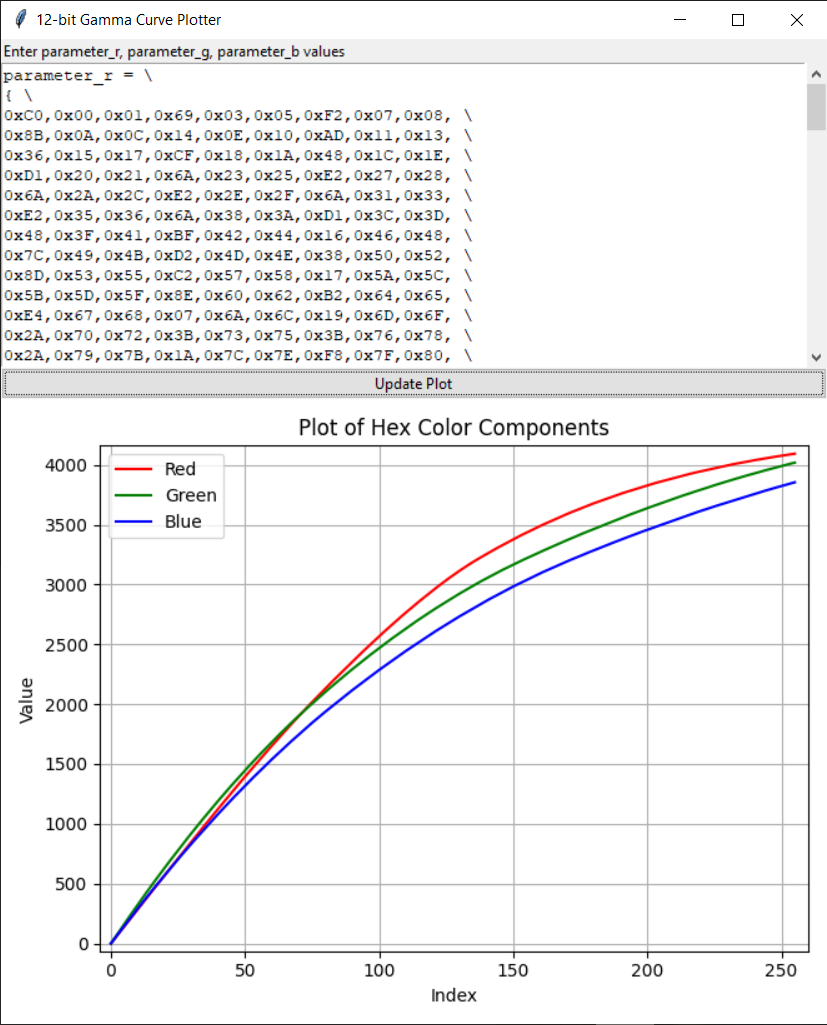
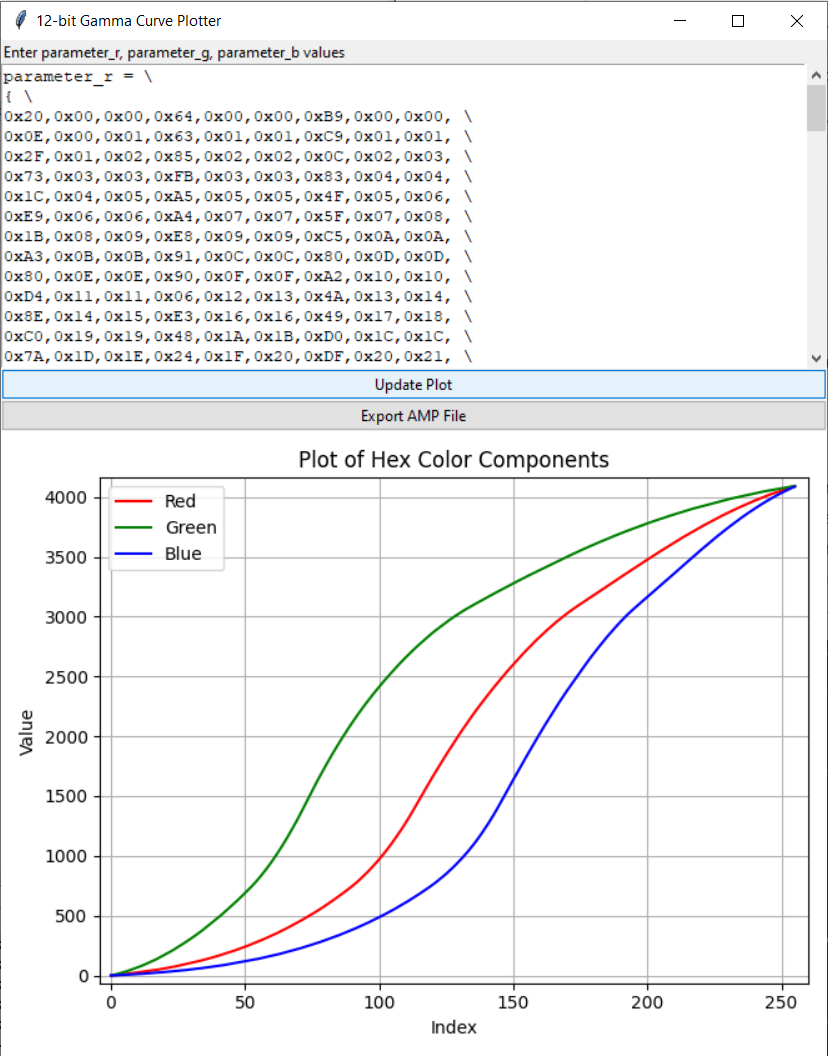
Added export to *.amp

Changed region(s): [[0.0, 0.0, 1.0, 1.0], [0.9371, 0.0, 0.9674, 0.0312], [0.8767, 0.0, 0.9069, 0.0312]]

diff --git a/12bit_gamma_plotter.py b/12bit_gamma_plotter.py
@@ -4,6 +4,7 @@ from tkinter import ttk
 from matplotlib.backends.backend_tkagg import FigureCanvasTkAgg
 from matplotlib.figure import Figure
 import re
+from tkinter import filedialog
 
 # Function to read two 12-bit numbers from a chunk of three bytes
 def read_uint12(data_chunk):
@@ -16,17 +17,11 @@ def read_uint12(data_chunk):
 # Function to update the plots with RGB parameters
 def update_plot(parameter_r, parameter_g, parameter_b):
 
-    # Update plot with data from the text field
-    def update_values(data_bytes):
-        data_chunk = np.array(data_bytes, dtype=np.uint8).tobytes()
-        twelve_bit_numbers = read_uint12(data_chunk)
-        return twelve_bit_numbers & 0xFFF # Mask to ensure it's 12-bit
-
     # Clear the current plot and create new plots for each parameter
     ax.clear()
-    ax.plot(update_values(parameter_r), 'ro-', label='Red', markersize=0)
-    ax.plot(update_values(parameter_g), 'go-', label='Green', markersize=0)
-    ax.plot(update_values(parameter_b), 'bo-', label='Blue', markersize=0)
+    ax.plot(parameter_r, 'ro-', label='Red', markersize=0)
+    ax.plot(parameter_g, 'go-', label='Green', markersize=0)
+    ax.plot(parameter_b, 'bo-', label='Blue', markersize=0)
     ax.set_xlim(0-4, 256+4)
     ax.set_ylim(0-64, 4096+64)
     ax.set_title('Plot of Hex Color Components')
@@ -47,14 +42,6 @@ def parse_hex_colors(input_text):
     parameter_r = [int(hex_values[i], 16) for i in range(0, values_per_color)]
     parameter_g = [int(hex_values[i], 16) for i in range(values_per_color, 2 * values_per_color)]
     parameter_b = [int(hex_values[i], 16) for i in range(2 * values_per_color, 3 * values_per_color)]
-    
-    # Return all parameter values (R, G, B)
-    return parameter_r, parameter_g, parameter_b
-
-# Function to handle button click event
-def on_button_click():
-    # Extract the RGB components from the input text
-    parameter_r, parameter_g, parameter_b = parse_hex_colors(text_field.get("1.0", tk.END))
 
     # Make sure all arrays have the same length
     trimmed_length = len(parameter_r) - (len(parameter_r) % 3)
@@ -63,8 +50,57 @@ def on_button_click():
     parameter_g = parameter_g[:trimmed_length]
     parameter_b = parameter_b[:trimmed_length]
     
+    # Decode 12bit data format
+    def decode_values(data_bytes):
+        data_chunk = np.array(data_bytes, dtype=np.uint8).tobytes()
+        twelve_bit_numbers = read_uint12(data_chunk)
+        return twelve_bit_numbers & 0xFFF # Mask to ensure it's 12-bit
+    
+    # Return all parameter values (R, G, B)
+    return decode_values(parameter_r), decode_values(parameter_g), decode_values(parameter_b)
+
+# Function to handle button click event
+def on_button_click():
+    # Extract the RGB components from the input text
+    parameter_r, parameter_g, parameter_b = parse_hex_colors(text_field.get("1.0", tk.END))
+
     # Update the plot with the RGB data
     update_plot(parameter_r, parameter_g, parameter_b)
+
+# Function to handle exporting to Adobe AMP format
+def export_amp(parameter_r, parameter_g, parameter_b):
+    if not len(parameter_r) or not len(parameter_g) or not len(parameter_b):
+        print("Error: empty input, nothing to export.")
+        return
+    if len(parameter_r)+len(parameter_g)+len(parameter_b) < 256*3:
+        print("Error: wrong array length in input.")
+        return
+        # Convert the parameters to 8-bit if they aren't already
+    parameter_r_8bit = np.array(parameter_r >> 4, dtype=np.uint8)
+    parameter_g_8bit = np.array(parameter_g >> 4, dtype=np.uint8)
+    parameter_b_8bit = np.array(parameter_b >> 4, dtype=np.uint8)
+    
+    # Open a file dialog for the user to choose where to save the file
+    file_path = filedialog.asksaveasfilename(defaultextension=".amp", filetypes=[("Adobe AMP files", "*.amp")])
+    if not file_path:
+        print("Export canceled.")
+        return  # User canceled the save operation
+    
+    # Write the data to a binary file in the specified format
+    with open(file_path, 'wb') as amp_file:
+        amp_file.write(bytes(range(256)))  # Write 256 bytes starting from 00 to FF
+        amp_file.write(bytes(parameter_r_8bit))
+        amp_file.write(bytes(parameter_g_8bit))
+        amp_file.write(bytes(parameter_b_8bit))
+        amp_file.write(bytes(range(256)))  # Write 256 bytes starting from 00 to FF again
+        
+    print("AMP file exported successfully!")
+
+def on_export_button_click():
+    # Parse the hex colors from the text field
+    parameter_r, parameter_g, parameter_b = parse_hex_colors(text_field.get("1.0", tk.END))
+    # Call the function to export to AMP with the parsed RGB values
+    export_amp(parameter_r, parameter_g, parameter_b)
 
 # Create the main window
 root = tk.Tk()
@@ -92,6 +128,9 @@ text_field['yscrollcommand'] = scrollbar.set
 update_button = ttk.Button(root, text="Update Plot", command=on_button_click)
 update_button.pack(fill='x')
 
+export_amp_button = ttk.Button(root, text="Export AMP File", command=on_export_button_click)
+export_amp_button.pack(fill='x')
+
 # Create a figure and a single subplot
 fig = Figure(figsize=(6, 5), tight_layout=True)
 ax = fig.add_subplot(111)
@@ -99,6 +138,7 @@ ax = fig.add_subplot(111)
 # Create the matplotlib canvas and embed it in the Tkinter window
 canvas = FigureCanvasTkAgg(fig, master=root)
 canvas.get_tk_widget().pack(fill='both', expand=True)
+
 
 # Start the Tkinter event loop
 root.mainloop()
